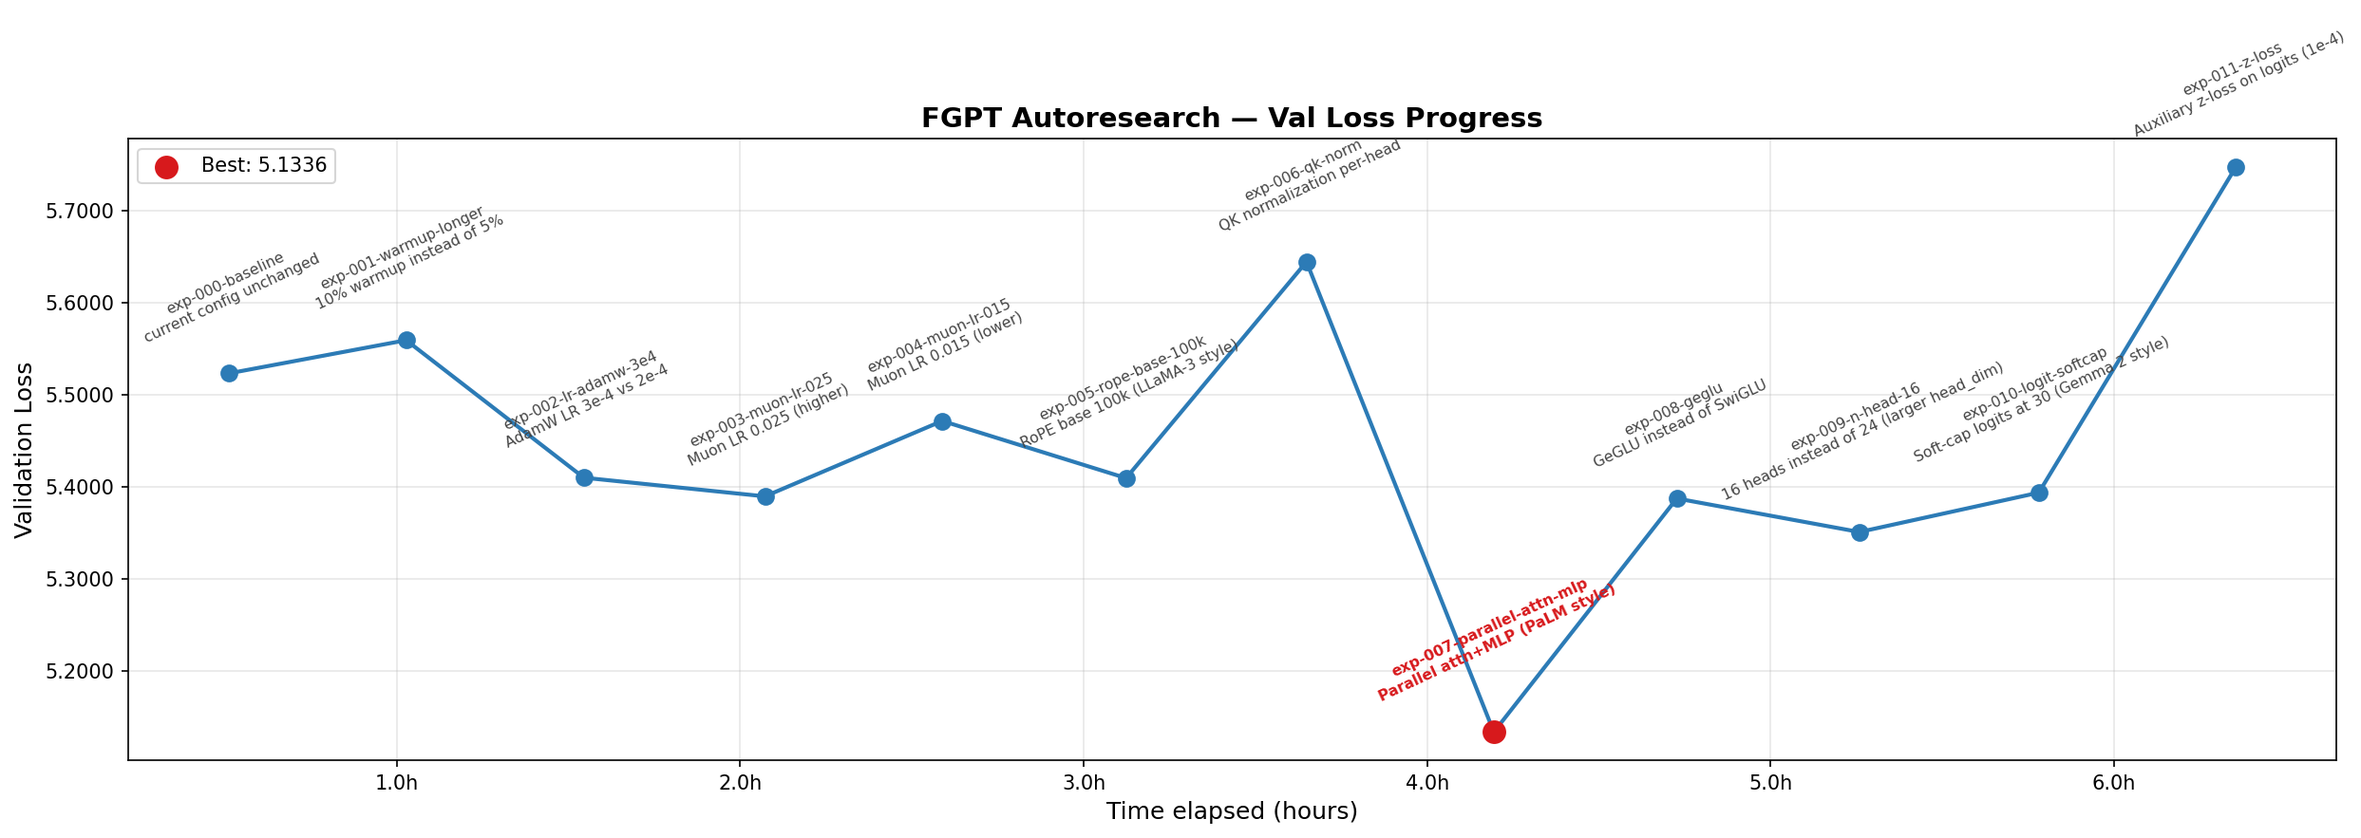
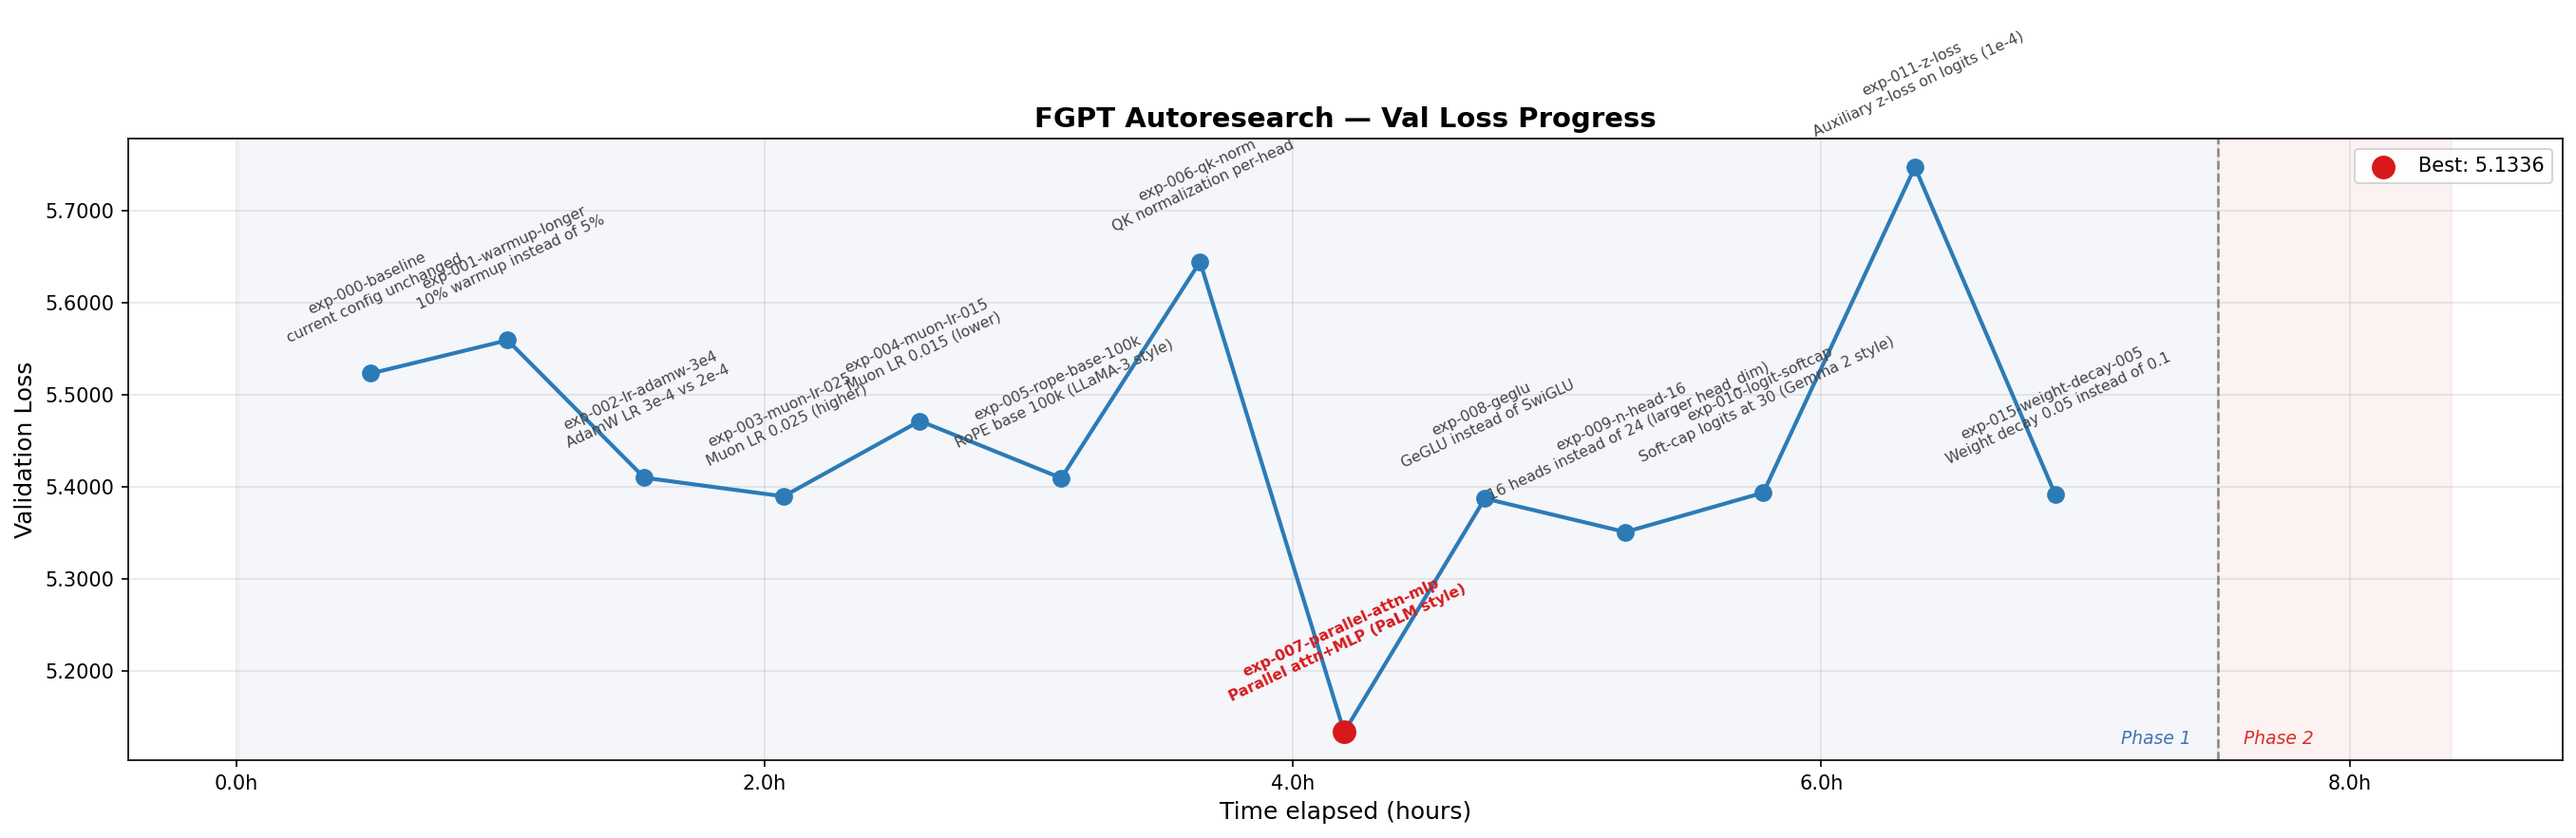
results: exp-016-no-weight-tying | val_loss=5.3643

diff --git a/src/fgpt/autoresearch/run_experiment.py b/src/fgpt/autoresearch/run_experiment.py
@@ -141,6 +141,7 @@ def run_experiment(
     n_head: int = 24,
     batch_size: int = 64,
     weight_decay: float = 0.1,
+    untie_lm_head: bool = False,
     # Per-experiment reasoning (written into the notes file)
     reasoning: str = "",
 ):
@@ -162,7 +163,7 @@ def run_experiment(
     # ── Model ────────────────────────────────────────────────────
     # Enable gradient checkpointing to fit in 80 GB (production ran on 96 GB GH200).
     # Recomputes each block during backward instead of storing all 32 layers.
-    cfg = FGPTConfig(gradient_checkpointing=True, rope_base=rope_base, n_head=n_head)
+    cfg = FGPTConfig(gradient_checkpointing=True, rope_base=rope_base, n_head=n_head, untie_lm_head=untie_lm_head)
     model = FGPT(cfg)
     model.to("cuda")
     torch.set_float32_matmul_precision("medium")
@@ -346,6 +347,7 @@ def main():
     parser.add_argument("--n-head", type=int, default=24)
     parser.add_argument("--batch-size", type=int, default=64)
     parser.add_argument("--weight-decay", type=float, default=0.1)
+    parser.add_argument("--untie-lm-head", action="store_true", default=False)
     parser.add_argument("--reasoning", type=str, default="")
     args = parser.parse_args()
 
@@ -362,6 +364,7 @@ def main():
         n_head=args.n_head,
         batch_size=args.batch_size,
         weight_decay=args.weight_decay,
+        untie_lm_head=args.untie_lm_head,
         reasoning=args.reasoning,
     )
 

diff --git a/src/fgpt/autoresearch/visualize.py b/src/fgpt/autoresearch/visualize.py
@@ -65,6 +65,27 @@ def plot(results, out_path=None):
 
     fig, ax = plt.subplots(figsize=(max(10, len(results) * 1.4), 6))
 
+    # Phase background shading
+    phase_boundary = 7.5  # hours
+    x_min = min(xs) - 0.5
+    x_max = max(xs) + 1.5
+    ax.axvspan(x_min, phase_boundary, alpha=0.06, color="#4575b4", zorder=0)
+    ax.axvspan(phase_boundary, x_max, alpha=0.06, color="#d73027", zorder=0)
+    ax.axvline(phase_boundary, color="#888888", linewidth=1.2, linestyle="--", zorder=2)
+    # Phase labels use blended transform: x in data coords, y in axes fraction
+    from matplotlib.transforms import blended_transform_factory
+    trans = blended_transform_factory(ax.transData, ax.transAxes)
+    ax.text(
+        phase_boundary - 0.1, 0.02, "Phase 1",
+        ha="right", va="bottom", fontsize=9, color="#4575b4", fontstyle="italic",
+        transform=trans,
+    )
+    ax.text(
+        phase_boundary + 0.1, 0.02, "Phase 2",
+        ha="left", va="bottom", fontsize=9, color="#d73027", fontstyle="italic",
+        transform=trans,
+    )
+
     ax.plot(xs, ys, marker="o", linewidth=2, markersize=8, color="#2c7bb6", zorder=3)
 
     # Annotate each point with tag + short description

diff --git a/src/fgpt/model.py b/src/fgpt/model.py
@@ -27,6 +27,8 @@ class FGPTConfig:
     # RoPE base frequency. Default 10000 matches GPT-NeoX / original RoPE paper.
     # LLaMA-3 uses 500000; common alternatives are 20000, 100000.
     rope_base: int = 10000
+    # Untie lm_head weights from wte. Default False = tied (saves ~63M params).
+    untie_lm_head: bool = False
 
 
 class CausalSelfAttention(nn.Module):
@@ -134,8 +136,9 @@ class FGPT(nn.Module):
         # actual head that will output logits for each token in the vocabulary
         self.lm_head = nn.Linear(config.n_embd, config.vocab_size, bias=False)
 
-        # weight sharing scheme
-        self.transformer.wte.weight = self.lm_head.weight
+        # weight sharing scheme (tied by default; untie_lm_head adds ~63M params)
+        if not config.untie_lm_head:
+            self.transformer.wte.weight = self.lm_head.weight
 
         # initialize weights
         self.apply(self._init_weights)

diff --git a/AUTORESEARCH.md b/AUTORESEARCH.md
@@ -134,7 +134,7 @@ Each experiment tested one variable against the original baseline in isolation. 
 | 10 | `exp-010-logit-softcap` | Soft-cap logits (Gemma 2 style) | `logits = tanh(logits/30)*30` before CE loss | ✅ done |
 | 11 | `exp-011-z-loss` | auxiliary logit z-loss | Add `z_loss = 1e-4 * logits.logsumexp(-1).pow(2).mean()` | ✅ done |
 | 15 | `exp-015-weight-decay-005` | lower weight decay (0.05) | `weight_decay=0.05` in AdamW | ✅ done |
-| 16 | `exp-016-no-weight-tying` | untie lm_head from wte | Separate `lm_head` and `wte` weights | ⏳ running |
+| 16 | `exp-016-no-weight-tying` | untie lm_head from wte | Separate `lm_head` and `wte` weights | ✅ done |
 
 ---
 
@@ -180,17 +180,18 @@ The first two experiments (017, 018) re-validate the other phase 1 architectural
 |------|-----|----------|-------------|
 | 1 | `exp-007-parallel-attn-mlp` | 5.1336 | Parallel attn+MLP (PaLM style) |
 | 2 | `exp-009-n-head-16` | 5.3510 | 16 heads instead of 24 (larger head_dim) |
-| 3 | `exp-008-geglu` | 5.3875 | GeGLU instead of SwiGLU |
-| 4 | `exp-003-muon-lr-025` | 5.3898 | Muon LR 0.025 (higher) |
-| 5 | `exp-015-weight-decay-005` | 5.3914 | Weight decay 0.05 instead of 0.1 |
-| 6 | `exp-010-logit-softcap` | 5.3939 | Soft-cap logits at 30 (Gemma 2 style) |
-| 7 | `exp-005-rope-base-100k` | 5.4097 | RoPE base 100k (LLaMA-3 style) |
-| 8 | `exp-002-lr-adamw-3e4` | 5.4101 | AdamW LR 3e-4 vs 2e-4 |
-| 9 | `exp-004-muon-lr-015` | 5.4718 | Muon LR 0.015 (lower) |
-| 10 | `exp-000-baseline` | 5.5235 | current config unchanged |
-| 11 | `exp-001-warmup-longer` | 5.5596 | 10% warmup instead of 5% |
-| 12 | `exp-006-qk-norm` | 5.6449 | QK normalization per-head |
-| 13 | `exp-011-z-loss` | 5.7478 | Auxiliary z-loss on logits (1e-4) |
+| 3 | `exp-016-no-weight-tying` | 5.3643 | Untied lm_head and wte weights |
+| 4 | `exp-008-geglu` | 5.3875 | GeGLU instead of SwiGLU |
+| 5 | `exp-003-muon-lr-025` | 5.3898 | Muon LR 0.025 (higher) |
+| 6 | `exp-015-weight-decay-005` | 5.3914 | Weight decay 0.05 instead of 0.1 |
+| 7 | `exp-010-logit-softcap` | 5.3939 | Soft-cap logits at 30 (Gemma 2 style) |
+| 8 | `exp-005-rope-base-100k` | 5.4097 | RoPE base 100k (LLaMA-3 style) |
+| 9 | `exp-002-lr-adamw-3e4` | 5.4101 | AdamW LR 3e-4 vs 2e-4 |
+| 10 | `exp-004-muon-lr-015` | 5.4718 | Muon LR 0.015 (lower) |
+| 11 | `exp-000-baseline` | 5.5235 | current config unchanged |
+| 12 | `exp-001-warmup-longer` | 5.5596 | 10% warmup instead of 5% |
+| 13 | `exp-006-qk-norm` | 5.6449 | QK normalization per-head |
+| 14 | `exp-011-z-loss` | 5.7478 | Auxiliary z-loss on logits (1e-4) |
 
 *Auto-updated by `run_experiment.py` after each run — see `experiments/results.jsonl` for full data.*
 

diff --git a/experiments/notes/exp-016-no-weight-tying.md b/experiments/notes/exp-016-no-weight-tying.md
@@ -1,0 +1,27 @@
+# exp-016-no-weight-tying
+
+**Description:** Untied lm_head and wte weights  
+**Val loss:** 5.3643  
+**Duration:** 30.4 min  
+**Seed:** 42  
+**Date:** 2026-04-12 19:00  
+
+## Hyperparameters
+
+| Parameter | Value |
+|-----------|-------|
+| AdamW LR | 0.0003 |
+| Muon LR | 0.025 |
+| Warmup | 5.0% |
+| Accum steps | 8 |
+| Min LR ratio | 0.05 |
+| RoPE base | 10000 |
+| n_head | 24 |
+
+## Reasoning
+
+The baseline ties lm_head and wte (input/output embedding weight sharing, GPT-2 style). Untying gives lm_head its own 63M parameters, letting input and output representations specialize independently. Some work finds untied weights help at larger scales. The tradeoff is more parameters to optimize, but the model may benefit from decoupled input/output token spaces.
+
+## Outcome
+
+**Better than baseline** (5.3643 vs 5.5235, -0.1591 better than baseline).
